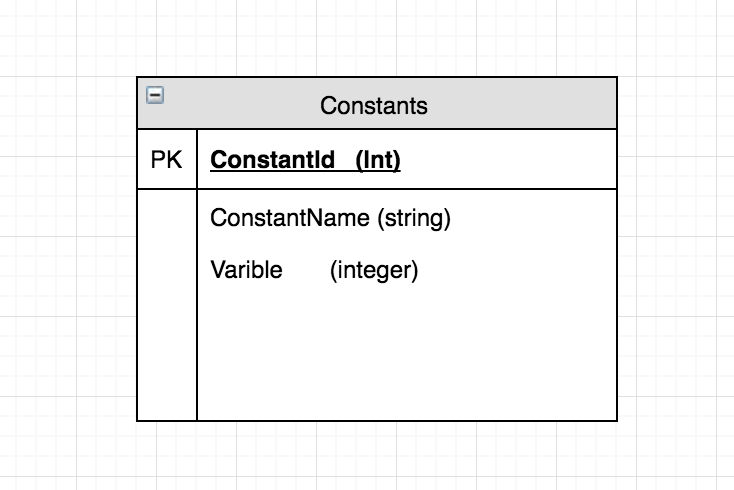
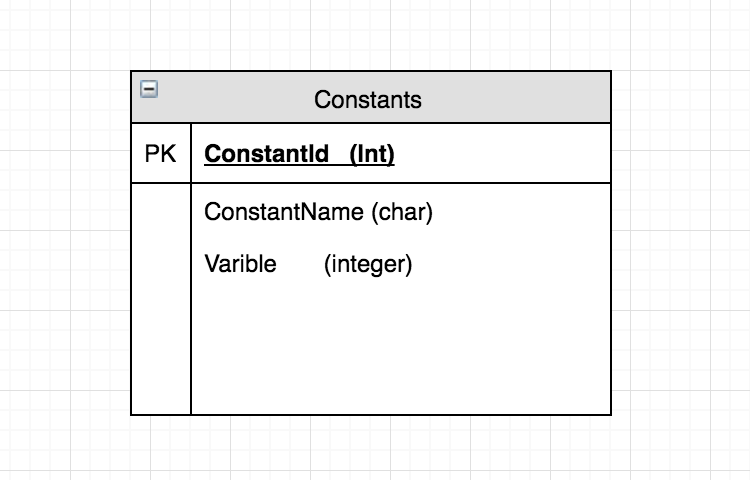
migration success

diff --git a/SavingVariables/Migrations/Configuration.cs b/SavingVariables/Migrations/Configuration.cs
@@ -1,16 +1,12 @@
-using System;
-using System.Collections.Generic;
-using System.Linq;
-using System.Text;
-using System.Threading.Tasks;
-using System.Data.Entity;
-using System.Data.Entity.Migrations;
-
 namespace SavingVariables.Migrations
 {
+    using System;
+    using System.Data.Entity;
+    using System.Data.Entity.Migrations;
+    using System.Linq;
+
     internal sealed class Configuration : DbMigrationsConfiguration<SavingVariables.DAL.ApplicationContext>
     {
-
         public Configuration()
         {
             AutomaticMigrationsEnabled = false;
@@ -18,8 +14,18 @@ namespace SavingVariables.Migrations
 
         protected override void Seed(SavingVariables.DAL.ApplicationContext context)
         {
-           // base.Seed(context);
-        }
+            //  This method will be called after migrating to the latest version.
 
+            //  You can use the DbSet<T>.AddOrUpdate() helper extension method 
+            //  to avoid creating duplicate seed data. E.g.
+            //
+            //    context.People.AddOrUpdate(
+            //      p => p.FullName,
+            //      new Person { FullName = "Andrew Peters" },
+            //      new Person { FullName = "Brice Lambson" },
+            //      new Person { FullName = "Rowan Miller" }
+            //    );
+            //
+        }
     }
 }

diff --git a/SavingVariables/Migrations/201609192200080_InitialCreate.Designer.cs b/SavingVariables/Migrations/201609192200080_InitialCreate.Designer.cs
@@ -1,0 +1,29 @@
+// <auto-generated />
+namespace SavingVariables.Migrations
+{
+    using System.CodeDom.Compiler;
+    using System.Data.Entity.Migrations;
+    using System.Data.Entity.Migrations.Infrastructure;
+    using System.Resources;
+    
+    [GeneratedCode("EntityFramework.Migrations", "6.1.3-40302")]
+    public sealed partial class InitialCreate : IMigrationMetadata
+    {
+        private readonly ResourceManager Resources = new ResourceManager(typeof(InitialCreate));
+        
+        string IMigrationMetadata.Id
+        {
+            get { return "201609192200080_InitialCreate"; }
+        }
+        
+        string IMigrationMetadata.Source
+        {
+            get { return null; }
+        }
+        
+        string IMigrationMetadata.Target
+        {
+            get { return Resources.GetString("Target"); }
+        }
+    }
+}

diff --git a/SavingVariables/Migrations/201609192200080_InitialCreate.cs b/SavingVariables/Migrations/201609192200080_InitialCreate.cs
@@ -1,0 +1,26 @@
+namespace SavingVariables.Migrations
+{
+    using System;
+    using System.Data.Entity.Migrations;
+    
+    public partial class InitialCreate : DbMigration
+    {
+        public override void Up()
+        {
+            CreateTable(
+                "dbo.Constants",
+                c => new
+                    {
+                        Id = c.Int(nullable: false, identity: true),
+                        Varible = c.Int(nullable: false),
+                    })
+                .PrimaryKey(t => t.Id);
+            
+        }
+        
+        public override void Down()
+        {
+            DropTable("dbo.Constants");
+        }
+    }
+}

diff --git a/SavingVariables.Tests/DAL/ApplicationRepositoryTest.cs b/SavingVariables.Tests/DAL/ApplicationRepositoryTest.cs
@@ -16,8 +16,8 @@ namespace SavingVariables.Tests.DAL
         //create Mock ApplicationContext
         Mock<ApplicationContext> mock_context { get; set; }
         Mock<DbSet<Constants>> mock_constants_table { get; set; }
-        List<Constants> constants+list { get; set; } //this is my fake database
-
+        List<Constants> constants_list { get; set; } //this is my fake database
+        
 
 
 

diff --git a/SavingVariables/Models/Constants.cs b/SavingVariables/Models/Constants.cs
@@ -10,7 +10,10 @@ namespace SavingVariables.Models
     public class Constants
     {
         [Key]
-        public String ConstantName { get; set; }
+        public int Id { get; set; }
+
+        [Required]
+        public Char ConstantName { get; set; }
 
         [Required]
         public int Varible { get; set; }

diff --git a/SavingVariables/DAL/ApplicationRepository.cs b/SavingVariables/DAL/ApplicationRepository.cs
@@ -6,7 +6,10 @@ using System.Threading.Tasks;
 
 namespace SavingVariables.DAL
 {
-    class ApplicationRepository
+    public class ApplicationRepository
     {
+        public ApplicationContext Context { get; set; }
+
+
     }
 }

diff --git a/README.md b/README.md
@@ -4,6 +4,9 @@ For this exercise you will create a CLI application that will Read, Delete and C
 
 The goal of this project is to help students learn TDD with the Entity Framework and Moq. Students will be supplied a trivial ERD and Command Line Application with this project.
 
++## Completed ERD and Table Join ![Screenshot](/ERD Constants.png)
+
+
 This solution contains:
 
 1. Console Project
@@ -24,7 +27,7 @@ This solution contains:
 Starting your console application should create a prompt that looks like:
 
 ```sh
->> 
+>>
 ```
 
 The user will enter expressions or commands that do work on a backend database.
